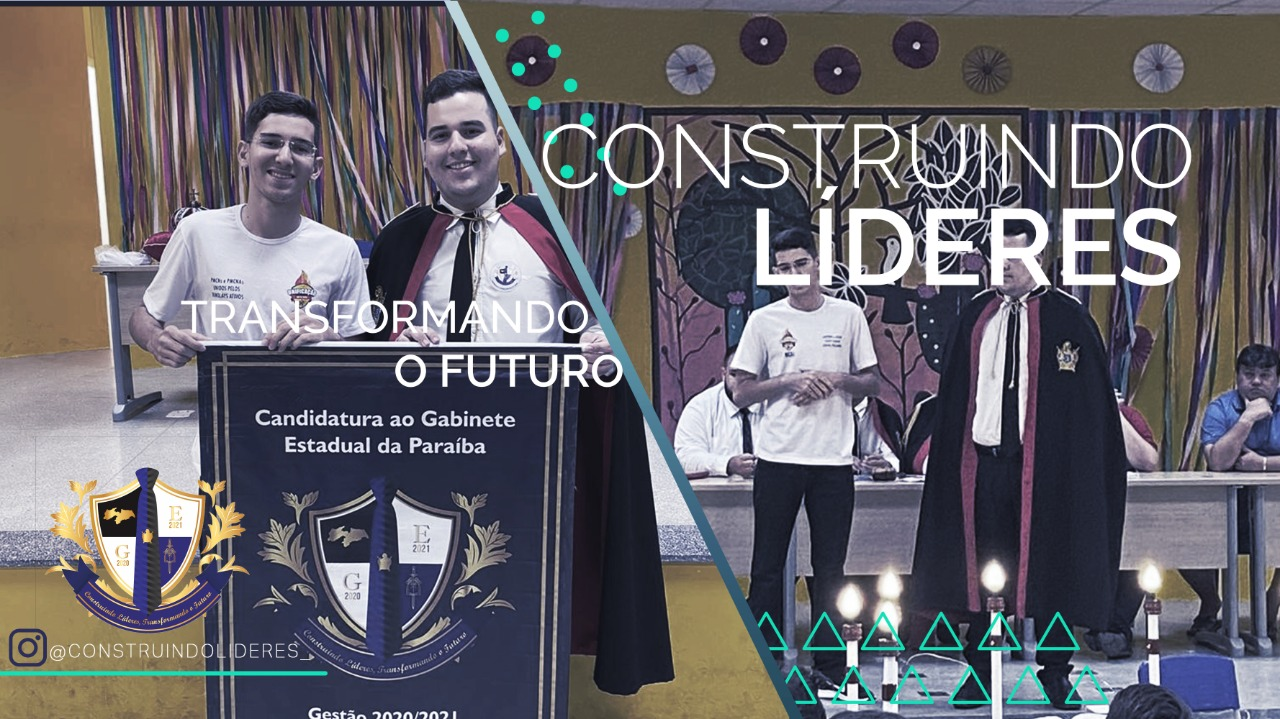
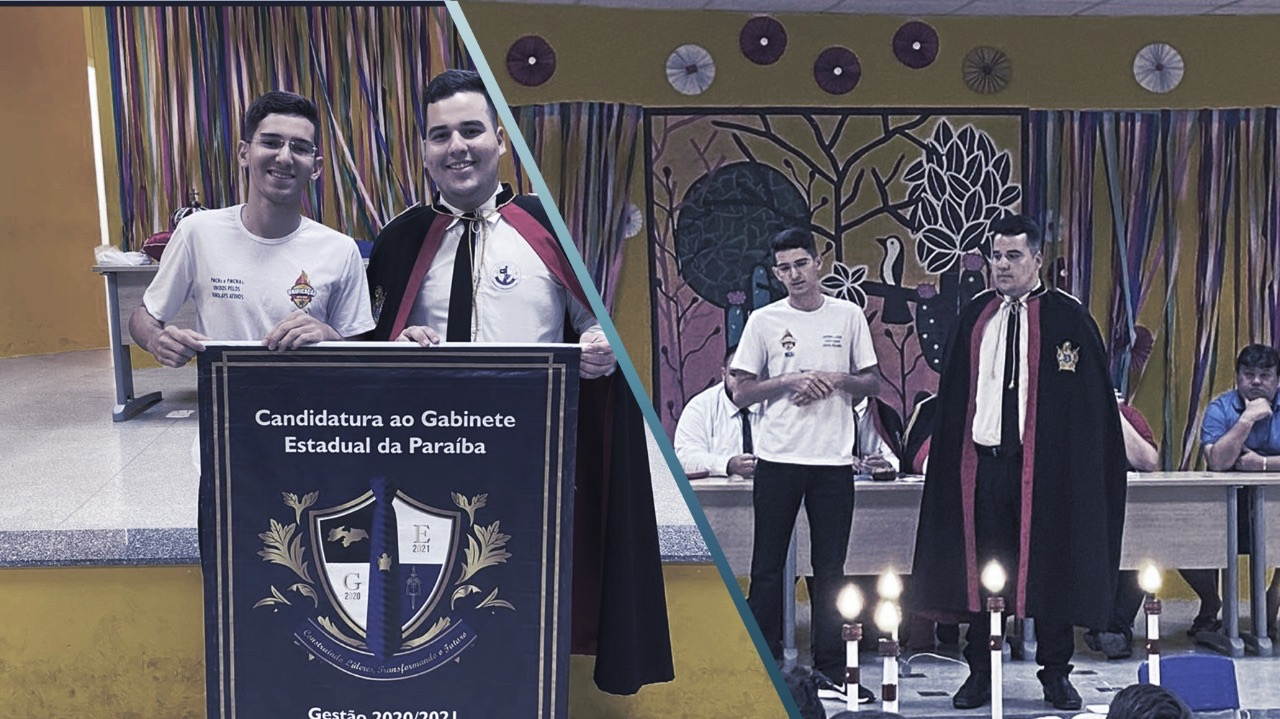
Ajuste na Imagem de Fundo e a primeira notícia

diff --git a/noticias/apresentacao-da-chapa/index.html b/noticias/apresentacao-da-chapa/index.html
@@ -1,0 +1,173 @@
+<!doctype html>
+<html lang="pt-br">
+
+<head>
+  <!-- Required meta tags -->
+  <meta charset="utf-8">
+  <meta name="viewport" content="width=device-width, initial-scale=1, shrink-to-fit=no">
+  <title>Construindo Líderes, Transformando o Futuro</title>
+  <link rel="icon" href="../../img/brasao/ge-icon.jpg">
+  <!-- Bootstrap CSS -->
+  <link rel="stylesheet" href="../../css/bootstrap.min.css">
+  <!-- animate CSS -->
+  <link rel="stylesheet" href="../../css/animate.css">
+  <!-- owl carousel CSS -->
+  <link rel="stylesheet" href="../../css/owl.carousel.min.css">
+  <!-- themify CSS -->
+  <link rel="stylesheet" href="../../css/themify-icons.css">
+  <!-- nice select CSS -->
+  <link rel="stylesheet" href="../../css/nice-select.css">
+  <!-- font awesome CSS -->
+  <link rel="stylesheet" href="../../css/magnific-popup.css">
+  <!-- style CSS -->
+  <link rel="stylesheet" href="../../css/style.css">
+</head>
+
+<body>
+  <!--::header part start::-->
+  <header class="main_menu">
+    <div class="container">
+      <div class="row align-items-center">
+        <div class="col-lg-12">
+          <nav class="navbar navbar-expand-lg navbar-light">
+            <a class="navbar-brand" href="../../"> <img src="../../img/brasao/ge.png" alt="logo"> </a>
+            <button class="navbar-toggler" type="button" data-toggle="collapse" data-target="#navbarSupportedContent" aria-controls="navbarSupportedContent" aria-expanded="false" aria-label="Toggle navigation">
+              <span class="navbar-toggler-icon"></span>
+            </button>
+
+            <div class="collapse navbar-collapse main-menu-item justify-content-center" id="navbarSupportedContent">
+              <ul class="navbar-nav align-items-center">
+                <li class="nav-item">
+                  <a class="nav-link" href="../../">Home</a>
+                </li>
+
+                <li class="nav-item">
+                  <a class="nav-link" href="../../equipe/">Equipe</a>
+                </li>
+                <li class="nav-item">
+                  <a class="nav-link" href="../../projetos">Projetos</a>
+                </li>
+                <li class="nav-item">
+                  <a class="nav-link" href="../../noticias">Notícias</a>
+                </li>
+                <li class="nav-item">
+                  <a class="nav-link" href="../../downloads">Downloads</a>
+                </li>
+              </ul>
+            </div>
+          </nav>
+        </div>
+      </div>
+    </div>
+  </header>
+  <!-- Header part end-->
+
+  <!-- breadcrumb start-->
+  <section class="breadcrumb breadcrumb_bg">
+    <div class="container">
+      <div class="row">
+        <div class="col-lg-12">
+          <div class="breadcrumb_iner text-center">
+          </div>
+        </div>
+      </div>
+    </div>
+  </section> <br>
+  <!-- breadcrumb start-->
+
+  <!--================Blog Area =================-->
+  <section class="blog_area single-post-area section_padding">
+    <div class="container">
+      <div class="row">
+        <div class="col-lg-8 posts-list">
+          <div class="single-post">
+            <div class="feature-img">
+              <img class="img-fluid" src="../../img/post/apresentacao-da-chapa/foto0.jpeg" alt="">
+            </div>
+            <div class="blog_details">
+              <h2>Apresentação da Chapa
+              </h2>
+              <ul class="blog-info-link mt-3 mb-4">
+                <li><a href="../../equipe/carloshenrique"><i class="far fa-user"></i>Carlos Henrique</a></li>
+                <li><a href="../../equipe/joaomeireles"><i class="far fa-comments"></i> João Meireles</a></li>
+              </ul>
+              <p class="excert" align="justify">
+                <strong>Paraíba, vamos juntos CONSTRUINDO LÍDERES, TRANSFORMANDO O FUTURO!</strong>
+              </p>
+              <p class="excert" align="justify">
+                Com muita euforia, amor e vontade de trabalhar ainda mais pela nossa Ordem DeMolay Paraibana, anunciamos oficialmente a nossa Pré-candidatura ao Gabinete Estadual da Paraíba (2020-2021). Visando uma Ordem DeMolay Paraibana cada vez mais forte, unida e consistente, com ensinamentos vindos da Ordem dos Escudeiros, a base da nossa Ordem, estamos preparados para CONSTRUIR LÍDERES e, acreditando nos sonhos de cada membro, TRANSFORMAREMOS O FUTURO.
+              </p>
+              <p class="excert" align="justify">
+                Seremos SÁBIOS, VERDADEIROS e JUSTOS, caminhando juntos e vivendo esse sonho inédito, de termos dois Escudeiros candidatos ao Gabinete Estadual da Paraíba.
+              </p>
+              <p class="excert" align="justify">
+                Nosso lema, CONSTRUINDO LÍDERES, TRANSFORMANDO O FUTURO, tem como objetivo levar a toda DeMolay Paraíba os ensinamentos e aprendizados que nos unem até os dias de hoje, desde a Ordem dos Escudeiros, onde inicia a CONSTRUÇÃO do novo LÍDER, até a TRANSFORMAÇÃO que o mesmo fará no FUTURO.
+              </p>
+              <p class="excert" align="justify">
+                Dessa forma, contamos com cada um de vocês, para que nosso sonho, seja o sonho de todos e para que possamos construir o hoje e transformar o amanhã.
+              </p>
+              <p>
+                <strong>Carlos Henrique</strong> - Pré-candidato a Mestre Conselheiro Estadual da Paraíba <br> <strong>João Meireles</strong> - Pré-candidato a Mestre Conselheiro Estadual Adjunto da Paraíba
+              </p>
+            </div>
+          </div>
+        </div>
+      </div>
+    </div>
+  </section>
+  <!--================Blog Area end =================-->
+
+  <!-- footer part start-->
+  <footer class="footer-area section_padding">
+    <div class="container">
+      <div class="row align-items-center">
+        <div class="col-lg-12">
+          <div class="copyright_part_text">
+            <div class="row">
+              <div class="col-lg-6">
+                <p class="footer-text m-0">
+                  <!-- Link back to Colorlib can't be removed. Template is licensed under CC BY 3.0. -->
+                  Copyright &copy;<script>
+                    document.write(new Date().getFullYear());
+                  </script> All rights reserved | Template by <a href="https://colorlib.com" target="_blank">Colorlib</a> | Developer by <a href="https://emanuel-gomes.github.io/">Emanuel Gomes</a>
+                  <!-- Link back to Colorlib can't be removed. Template is licensed under CC BY 3.0. -->
+                </p>
+              </div>
+              <div class="col-lg-6">
+                <div class="social_icon">
+                  <a href="https://instagram.com/construindolideres_"> <i class="ti-instagram"></i> </a>
+                </div>
+              </div>
+            </div>
+          </div>
+        </div>
+      </div>
+    </div>
+  </footer>
+  <!-- footer part end-->
+
+  <!-- jquery plugins here-->
+  <!-- jquery -->
+  <script src="../../js/jquery-1.12.1.min.js"></script>
+  <!-- popper js -->
+  <script src="../../js/popper.min.js"></script>
+  <!-- bootstrap js -->
+  <script src="../../js/bootstrap.min.js"></script>
+  <!-- easing js -->
+  <script src="../../js/jquery.magnific-popup.js"></script>
+  <!-- swiper js -->
+  <script src="../../js/swiper.min.js"></script>
+  <!-- swiper js -->
+  <script src="../../js/masonry.pkgd.js"></script>
+  <!-- particles js -->
+  <script src="../../js/owl.carousel.min.js"></script>
+  <script src="../../js/jquery.nice-select.min.js"></script>
+  <!-- swiper js -->
+  <script src="../../js/slick.min.js"></script>
+  <script src="../../js/jquery.counterup.min.js"></script>
+  <script src="../../js/waypoints.min.js"></script>
+  <!-- custom js -->
+  <script src="../../js/custom.js"></script>
+</body>
+
+</html>

diff --git a/index.html b/index.html
@@ -68,7 +68,10 @@
       <div class="row align-items-center">
         <div class="col-lg-10">
           <div class="banner_text">
-
+            <div class="banner_text_iner">
+              <p>Pré Candidatura ao Gabinete Estadual da Paraíba <br>Gestão 2020/2021</p>
+              <h1>"Construindo Líderes, Transformando <br>o Futuro"</h1>
+            </div>
           </div>
         </div>
       </div>
@@ -85,21 +88,21 @@
 
             <article class="blog_item">
               <div class="blog_item_img">
-                <img class="card-img rounded-0" src="img/post/primeira-reunião-ritualística-da-gestão-instalação-do-colégio-alumni/foto0.jpeg" alt="">
+                <img class="card-img rounded-0" src="img/post/apresentacao-da-chapa/foto0.jpeg" alt="">
                 <a href="#" class="blog_item_date">
-                  <h3>25</h3>
+                  <h3>19</h3>
                   <p>Jan</p>
                 </a>
               </div>
 
               <div class="blog_details">
-                <a class="d-inline-block" href="noticias/model">
-                  <h2>Notícia Teste</h2>
+                <a class="d-inline-block" href="noticias/apresentacao-da-chapa/">
+                  <h2>Apresentação da Chapa</h2>
                 </a>
-                <p>Primeira Reunião Ritualística da Gestão e Instalação do Colégio Alumni União do Brejo Nº 220.</p>
+                <p>Paraíba, vamos juntos CONSTRUINDO LÍDERES, TRANSFORMANDO O FUTURO!</p>
                 <ul class="blog-info-link">
-                  <li><a href="#"><i class="far fa-user"></i>Comissão de Marketing</a></li>
-                  <li><a href="#"><i class="far fa-comments"></i> Kevin Pontes e Emanuel Gomes</a></li>
+                  <li><a href="equipe/carloshenrique"><i class="far fa-user"></i>Carlos Henrique</a></li>
+                  <li><a href="equipe/joaomeireles"><i class="far fa-comments"></i> João Meireles</a></li>
                 </ul>
               </div>
             </article>
